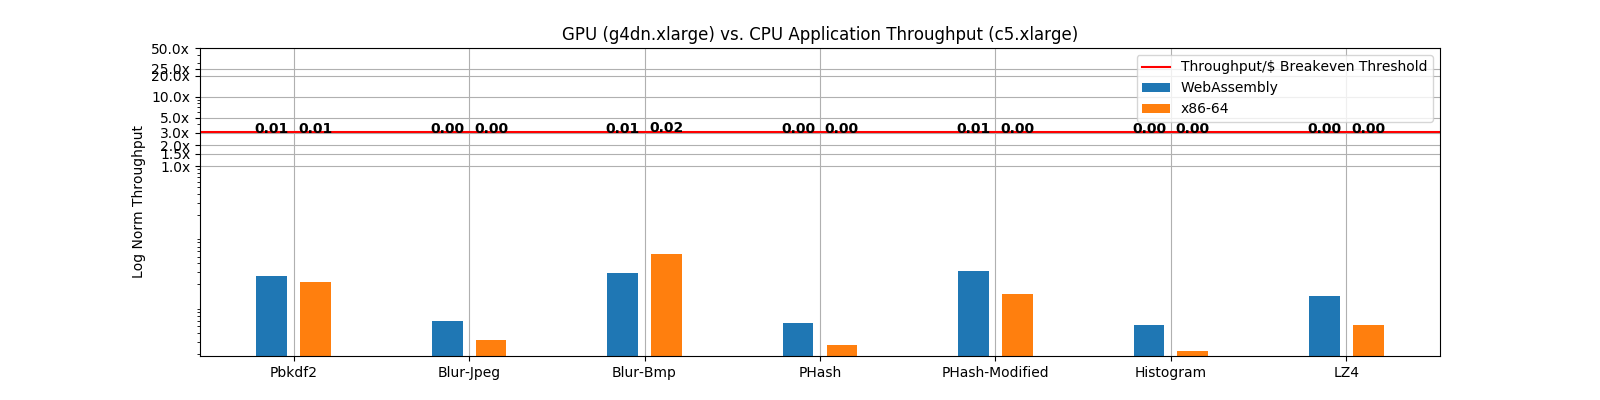
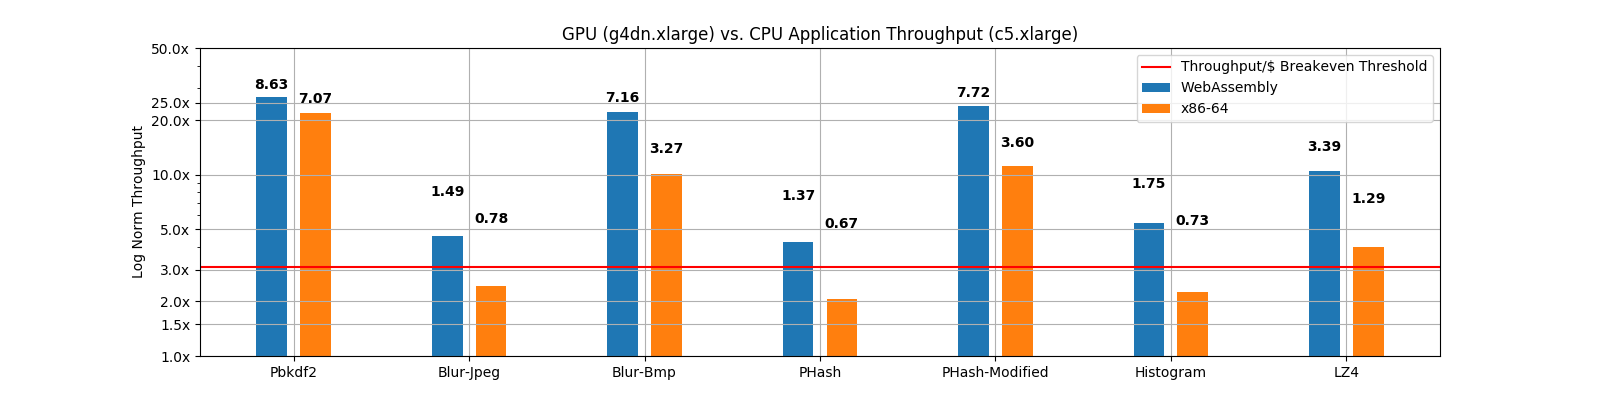
more fig updates

diff --git a/benchmarks/make_figures.py b/benchmarks/make_figures.py
@@ -115,7 +115,7 @@ lz4_cpu_x86 = parse_file("cpu_x86_bench_lz4")
 vmcount = [4096, 3072, 3072, 3072, 3072, 4096, 3072]
 gpu_list = [pbkdf2_gpu, imageblur_gpu, imageblur_bmp_gpu, imagehash_gpu, imagehash_modified_gpu, histogram_gpu, lz4_gpu]
 cpu_wasm_list = [pbkdf2_cpu_wasm, imageblur_cpu_wasm, imageblur_bmp_cpu_wasm, imagehash_cpu_wasm, imagehash_modified_cpu_wasm, histogram_cpu_wasm, lz4_cpu_wasm]
-cpu_x86_list = [pbkdf2_cpu_x86, imageblur_cpu_x86, imageblur_cpu_x86, imagehash_cpu_x86, imagehash_modified_cpu_x86, histogram_cpu_x86, lz4_cpu_x86]
+cpu_x86_list = [pbkdf2_cpu_x86, imageblur_cpu_x86, imageblur_bmp_cpu_x86, imagehash_cpu_x86, imagehash_modified_cpu_x86, histogram_cpu_x86, lz4_cpu_x86]
 gpu_rps = []
 cpu_wasm_rps = []
 cpu_x86_rps = []
@@ -137,11 +137,12 @@ cpu_x86_rps_device = []
 for d, v in zip(gpu_list, vmcount):
     new_rps = v / (d['on_dev_exe_time'] / (10 ** 9))
     gpu_rps_device.append(new_rps)
+# Each CPU instance has 4 cores, so can process 4 requests per second
 for d, v in zip(cpu_wasm_list, vmcount):
-    new_rps = v / (d['on_dev_exe_time'] / (10 ** 9))
+    new_rps = 4 / (d['on_dev_exe_time'] / (10 ** 9))
     cpu_wasm_rps_device.append(new_rps)
 for d, v in zip(cpu_x86_list, vmcount):
-    new_rps = v / (d['on_dev_exe_time'] / (10 ** 9))
+    new_rps = 4 / (d['on_dev_exe_time'] / (10 ** 9))
     cpu_x86_rps_device.append(new_rps)
 
 plot_bars(gpu_rps_device, cpu_wasm_rps_device, cpu_x86_rps_device, "e2e_device_time_only")
